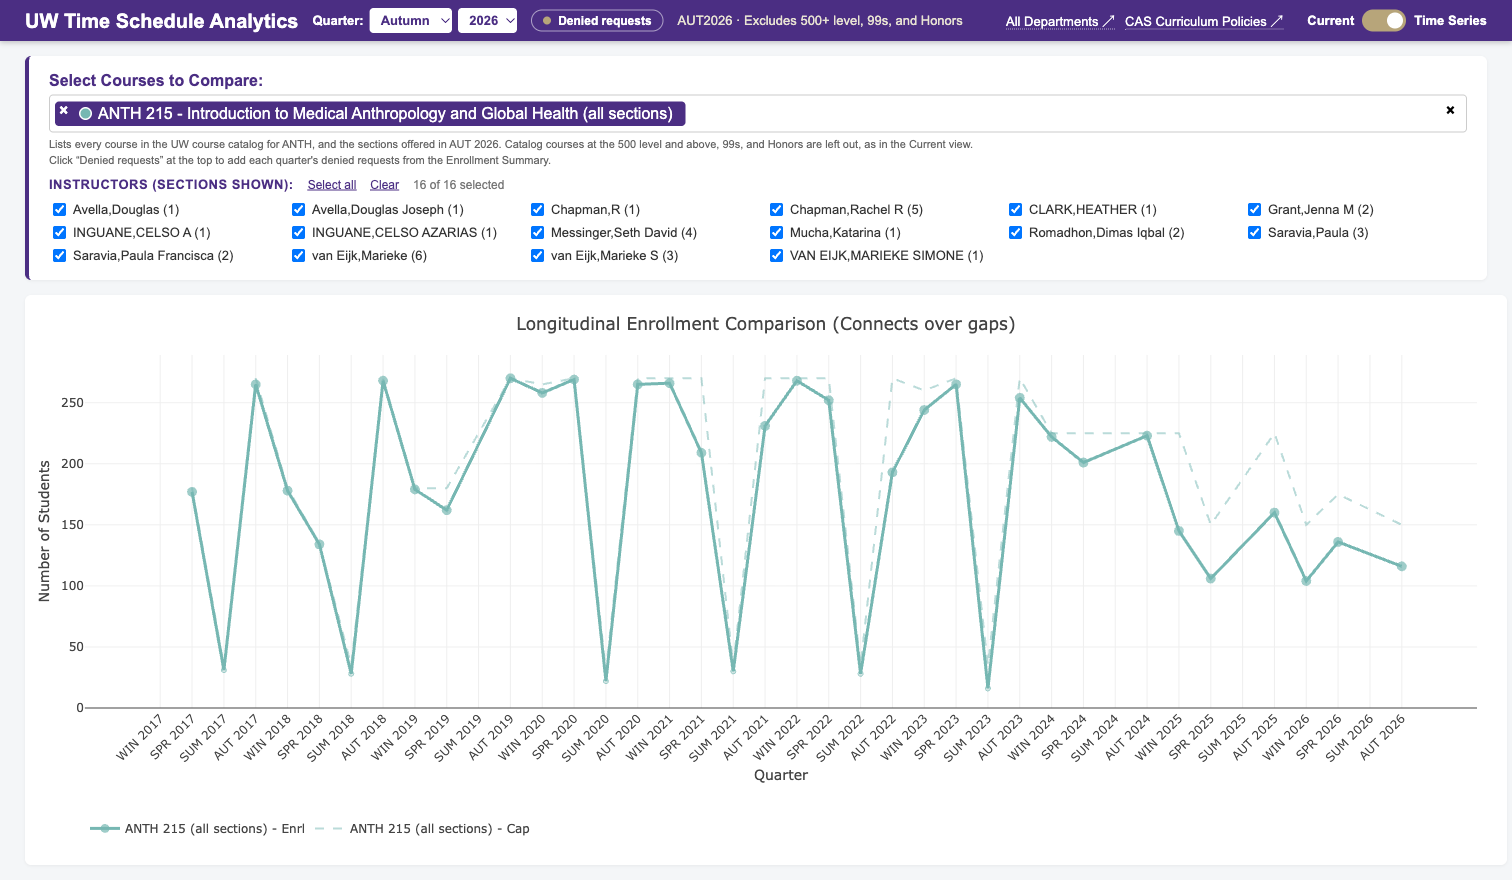
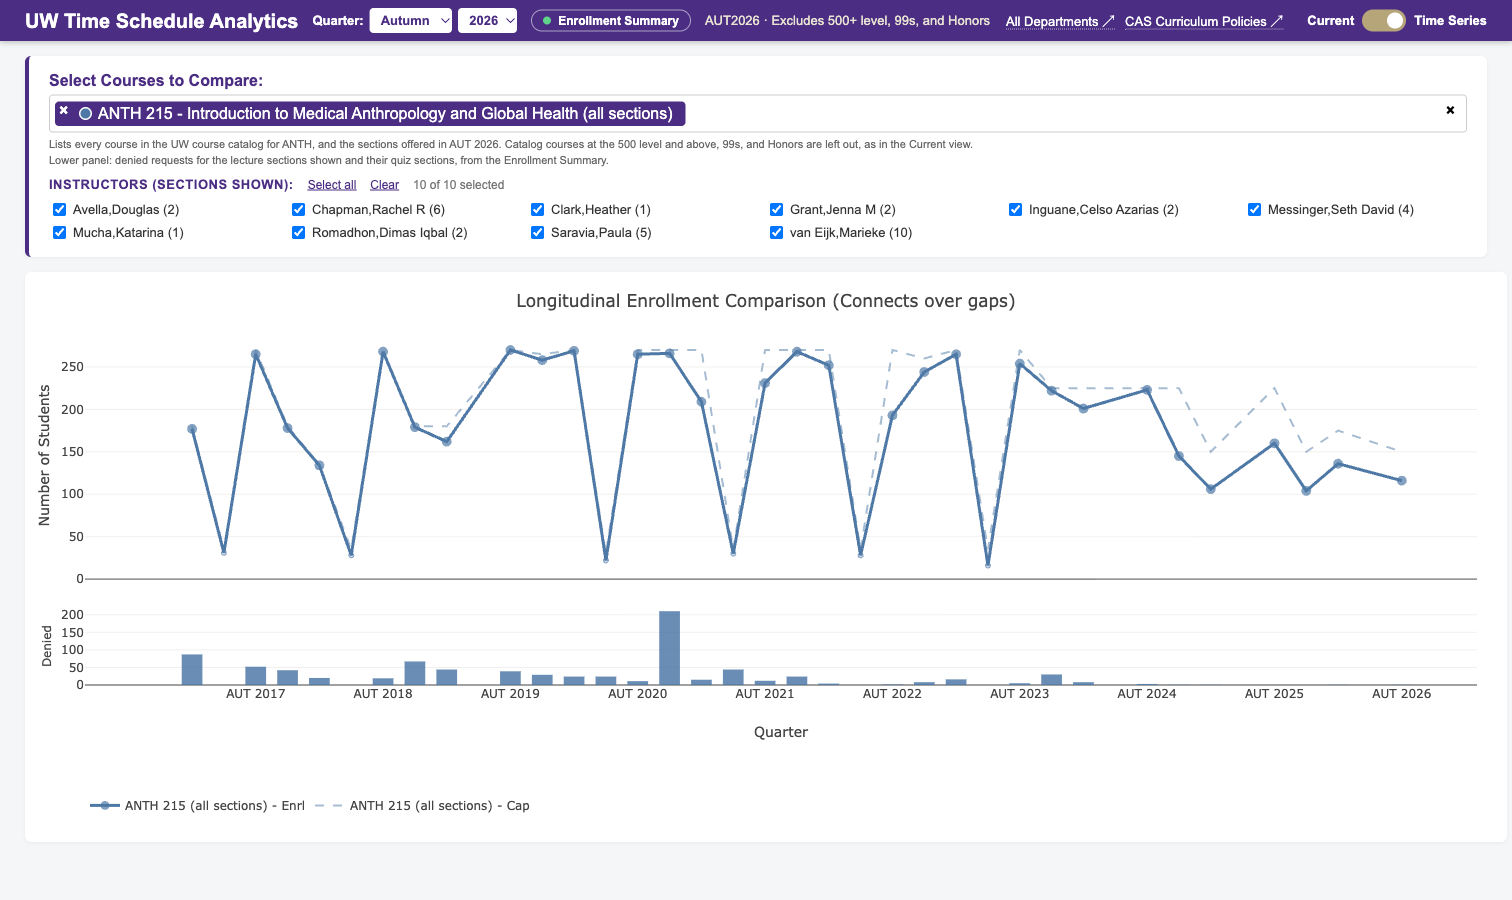
update screenshots

diff --git a/readme.md b/readme.md
@@ -61,7 +61,7 @@ javascript:(function(){
 -   To add denied requests, room fit and joint-offering partners, click "Denied requests" at the top of the dashboard. The Enrollment Summary opens in a new tab; click the Time Schedule Viz bookmark in that tab once. The button then reads "Enrollment Summary" and the Denied and Room fit columns, the Denied requests and Room fit cards (with their line charts), the joint-offering partners in the Sections counted card, and the time series' denied panel fill in. Keep that tab open while you use the dashboard; closing it disconnects. The Enrollment Summary does not define "denied requests" (for example, whether a student who tries again is counted again), so read them as a relative signal of unmet demand.
 -   The Weekly meeting pattern heatmap shades each half hour of the week by the number of sections (or students) meeting then; hover a cell to list the sections. Click Timeline to see each section as a bar from its start to its end time instead, with sections that meet at the same time stacked in separate rows and bars colored by course level in UW brand colors (Spirit Gold for 100-level, Lavender for 200-level, Heritage Gold for 300-level, Husky Purple for 400-level); hover a bar for its title, times, room, instructor and enrollment. Tick Quiz sections to include them; in the timeline they are shown as white bars outlined in their course level's color.
 -   Use the Instructors checkboxes below the prefix chips to show or hide the sections taught by particular instructors; the stats, charts, and table update to match.
--   The Time Schedule sometimes spells one instructor's name several ways, e.g. `Chapman,R` and `Chapman,Rachel R`. The Instructors checkboxes in both views treat names with the same surname and matching first and middle names (or their initials) as one person, show the spelling used for the most sections, and list the other spellings when you hover over the name. Names that differ in spelling, e.g. a nickname, are not merged. Names that the Time Schedule prints in all capitals are shown with each word capitalized (e.g. `CLARK,HEATHER` as `Clark,Heather`); names in mixed case keep the Time Schedule's spelling (e.g. `van Eijk`).
+-   The Time Schedule sometimes spells one instructor's name several ways, e.g. `Marwick,B` and `Marwick,Ben`. The Instructors checkboxes in both views treat names with the same surname and matching first and middle names (or their initials) as one person, show the spelling used for the most sections, and list the other spellings when you hover over the name. Names that differ in spelling, e.g. a nickname, are not merged. Names that the Time Schedule prints in all capitals are shown with each word capitalized (e.g. `MARWICK,BEN` as `Marwick,Ben`); names in mixed case keep the Time Schedule's spelling (e.g. `van Eijk`).
 -   Explore the dashboard by filtering the data using the checkboxes at the top, e.g. click or double-click on the plot legends to show/hide classes; sort the table at the bottom by %Full.
 -   The Sections counted card also shows how many of those sections are jointly offered with another course, and with which prefixes once the Enrollment Summary is connected.
 -   The Enrolled / capacity, Fullness, Denied requests and Room fit cards include a small line chart of the Autumn, Winter and Spring quarters of the last five years (Summer quarters are left out), ending at the selected quarter, with the highest and lowest values labelled; hover the line to see each quarter's numbers. In the Enrolled / capacity card the solid line is students enrolled and the dashed line is capacity. The Fullness and Room fit charts use a fixed 0–100% scale with grey lines at 0% and 100%. Past quarters count the same prefixes, Gen Ed filter, excluded courses and course levels as the cards; sections you unchecked and instructors you hid apply only to the selected quarter. The Denied requests and Room fit charts need the Enrollment Summary connected. On narrow cards (for example, with all six cards showing) the charts sit below the numbers, across the full width of the card, instead of beside them. Under each of these numbers, a small line gives the change from the same quarter last year (e.g. "−39 (−4.5%) vs AUT 2025"; percentages change in percentage points).
@@ -82,7 +82,7 @@ Time series view:
 
 #### Overview
 
-For a given academic year, this script collects data from the [UW Time Schedule](https://www.washington.edu/students/timeschd/) pages for any UW course prefixes you choose and produces a simple dashboard that visualizes instructor workloads for the instructors of the selected prefixes. Type the prefixes you want (one or several, comma-separated, e.g. `ANTH, ARCHY, BIO A`) into the box at the top of the dashboard. The script recognizes all 355 UW course prefixes and rejects unknown prefixes with a warning. Choose the academic year (from 2002-03 on) and the quarters to count from the Year menu and checkboxes at the top of the dashboard; by default the script loads the Autumn, Winter, and Spring pages of the academic year, and Summer can be added. The script assigns the prefix its own color for the plots and tables. The dashboard calculates annual student credit hours (SCH) for every instructor and shows them in three charts side by side: a bar for each instructor split into one segment per course (credits × students, colored by quarter, with the department median as a solid line and the SCH target as a dashed line), a Lorenz curve of how concentrated the teaching is (each dot is one instructor, filled when at or above the SCH target; a table below the curve lists as many of the top instructors as fit, with their SCH, their share of all SCH, their share of all student enrollments (a student in two courses counts twice; co-taught enrollment is split), and the cumulative share of SCH; the previous year's curve is drawn in grey, and the Gini coefficient for both years is given), and a slopegraph of each instructor's SCH in the previous academic year and the selected one, with changes of at least 80% of the SCH target highlighted. The slopegraph and the grey Lorenz curve load the previous year's Time Schedule pages in the background. Hovering an instructor in any of the three charts highlights the same person in the other two. The script generates a Instructor Labor Distribution table with one row for each instructor, and columns to display the total number of courses, credits, SCH, an enrollment balance metric (so we can see if an instructor's SCH are concentrated in only one big course, or evenly disributed accross multiple courses), and a SCH target classification (relative to a target SCH value, this is adjustable with a slider). When the Time Schedule spells one instructor's name several ways (e.g. `Chapman,R` and `Chapman,Rachel R`), the table combines them into one row, as in the Time Schedule Viz, and lists the other spellings when you hover over the name. Names in all capitals are shown with each word capitalized; names in mixed case keep the Time Schedule's spelling. The script does not use or contain AI and does not use any data other than the Time Schedule pages for the prefixes you select. The script runs entirely in your browser. No data are collected from your computer or stored on your computer. No student-level data or other FERPA-protected data are collected or used by this script.
+For a given academic year, this script collects data from the [UW Time Schedule](https://www.washington.edu/students/timeschd/) pages for any UW course prefixes you choose and produces a simple dashboard that visualizes instructor workloads for the instructors of the selected prefixes. Type the prefixes you want (one or several, comma-separated, e.g. `ANTH, ARCHY, BIO A`) into the box at the top of the dashboard. The script recognizes all 355 UW course prefixes and rejects unknown prefixes with a warning. Choose the academic year (from 2002-03 on) and the quarters to count from the Year menu and checkboxes at the top of the dashboard; by default the script loads the Autumn, Winter, and Spring pages of the academic year, and Summer can be added. Each prefix gets its own color on its chip at the top of the dashboard. The dashboard calculates annual student credit hours (SCH) for every instructor and shows them in three charts side by side: a bar for each instructor split into one segment per course (credits × students, colored by quarter, with the department median as a solid line and the SCH target as a dashed line), a Lorenz curve of how concentrated the teaching is (each dot is one instructor, filled when at or above the SCH target; a table below the curve lists as many of the top instructors as fit, with their SCH, their share of all SCH, their share of all student enrollments (a student in two courses counts twice; co-taught enrollment is split), and the cumulative share of SCH; the previous year's curve is drawn in grey, and the Gini coefficient for both years is given), and a slopegraph of each instructor's SCH in the previous academic year and the selected one, with changes of at least 80% of the SCH target highlighted. The slopegraph and the grey Lorenz curve load the previous year's Time Schedule pages in the background. Hovering an instructor in any of the three charts highlights the same person in the other two. The script generates a Instructor Labor Distribution table with one row for each instructor, and columns to display the total number of courses, credits, SCH, an enrollment balance metric (so we can see if an instructor's SCH are concentrated in only one big course, or evenly disributed accross multiple courses), and a SCH target classification (relative to a target SCH value, this is adjustable with a slider). When the Time Schedule spells one instructor's name several ways (e.g. `Chapman,R` and `Chapman,Rachel R`), the table combines them into one row, as in the Time Schedule Viz, and lists the other spellings when you hover over the name. Names in all capitals are shown with each word capitalized; names in mixed case keep the Time Schedule's spelling. The script does not use or contain AI and does not use any data other than the Time Schedule pages for the prefixes you select. The script runs entirely in your browser. No data are collected from your computer or stored on your computer. No student-level data or other FERPA-protected data are collected or used by this script.
 
 #### Script for the bookmarklet:
 
@@ -111,7 +111,7 @@ javascript:(function(){
 -   If you click the bookmark while on a department's page (e.g. [https://www.washington.edu/students/timeschd/SPR2026/anthro.html](https://www.washington.edu/students/timeschd/SPR2026/anthro.html)), that department's prefix (here `ANTH`) is already loaded when the dashboard opens; add more prefixes as usual.
 -   Use the Year menu to switch academic years, and the AUT/WIN/SPR/SUM checkboxes to choose which quarters are counted; the charts and table update to match.
 -   Use the Instructors checkboxes below the prefix chips to leave particular instructors (or TBA) out of the charts, the table and the totals, as in the Time Schedule Viz; "Select all" and "Clear" check or uncheck everyone.
--   Explore the dashboard by filtering the data using the checkboxes at the top, e.g. click or double-click on the plot legends to show/hide classes; sort the table at the bottom by each column.
+-   Explore the dashboard by filtering the data using the checkboxes at the top; hover over a bar, dot or line in the charts to see the numbers and highlight that instructor in all three charts; sort the table at the bottom by each column.
 -   Close the Dashboard tab when finished. To share the dashboard, print it as a PDF or take a screenshot.
 
 ![Time-Schedule-Workload](Time-Schedule-Workload.png)
